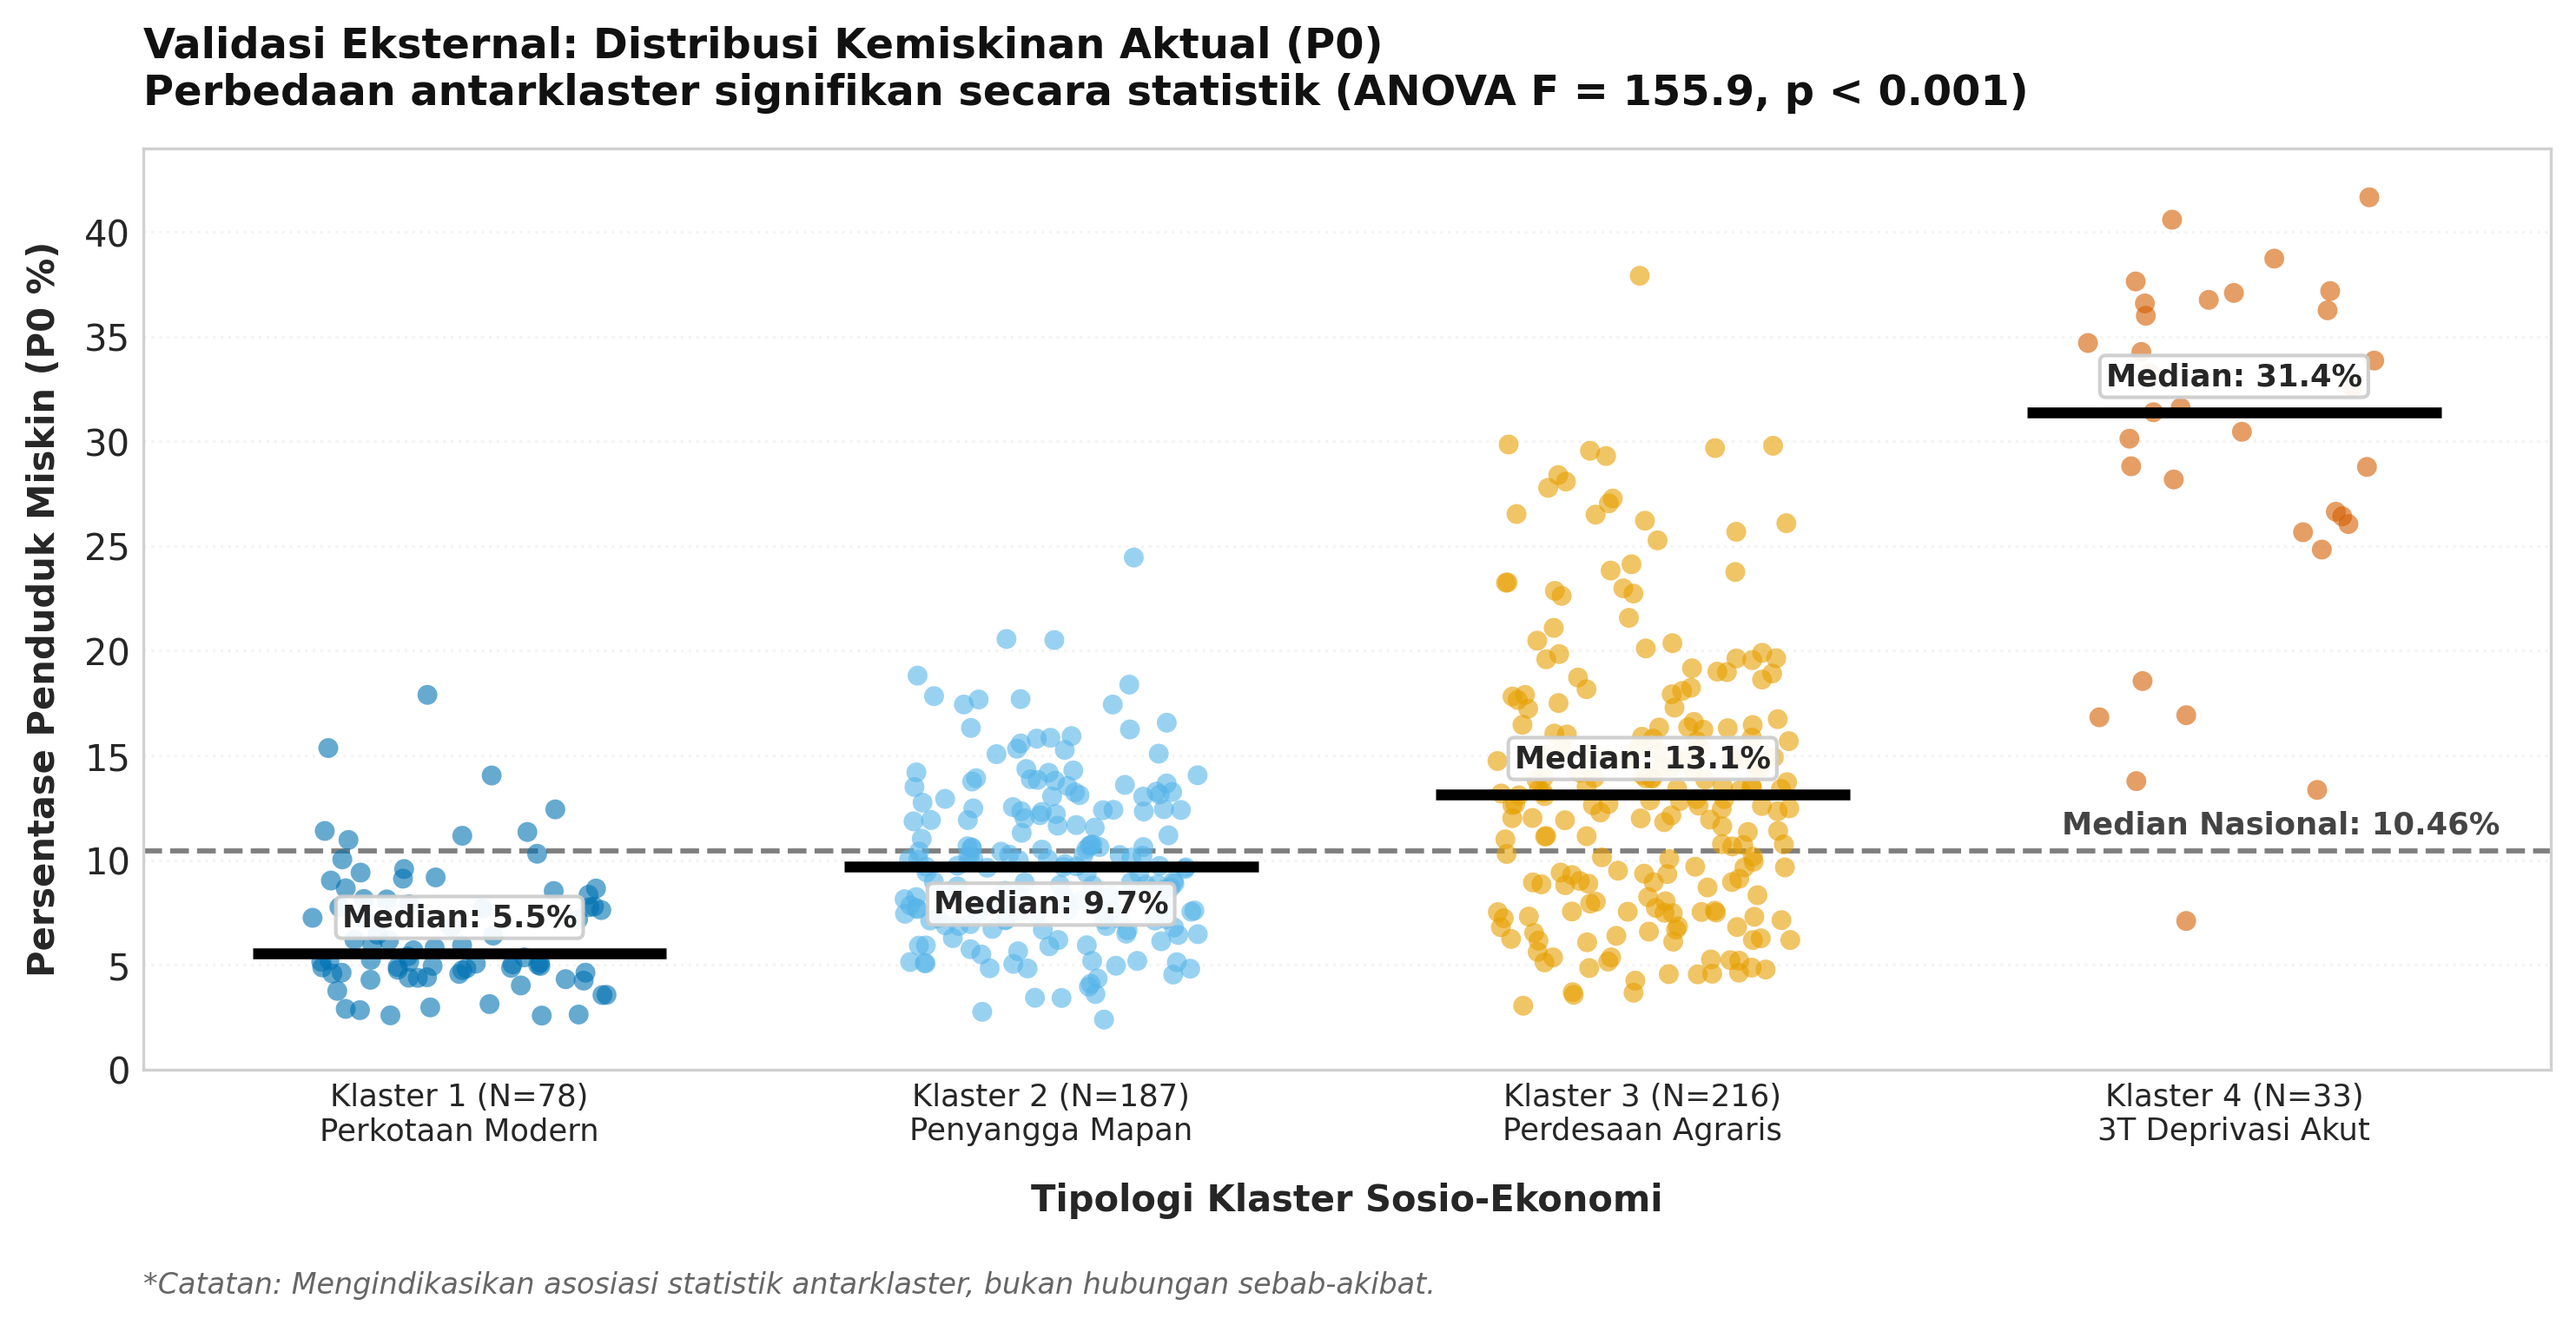
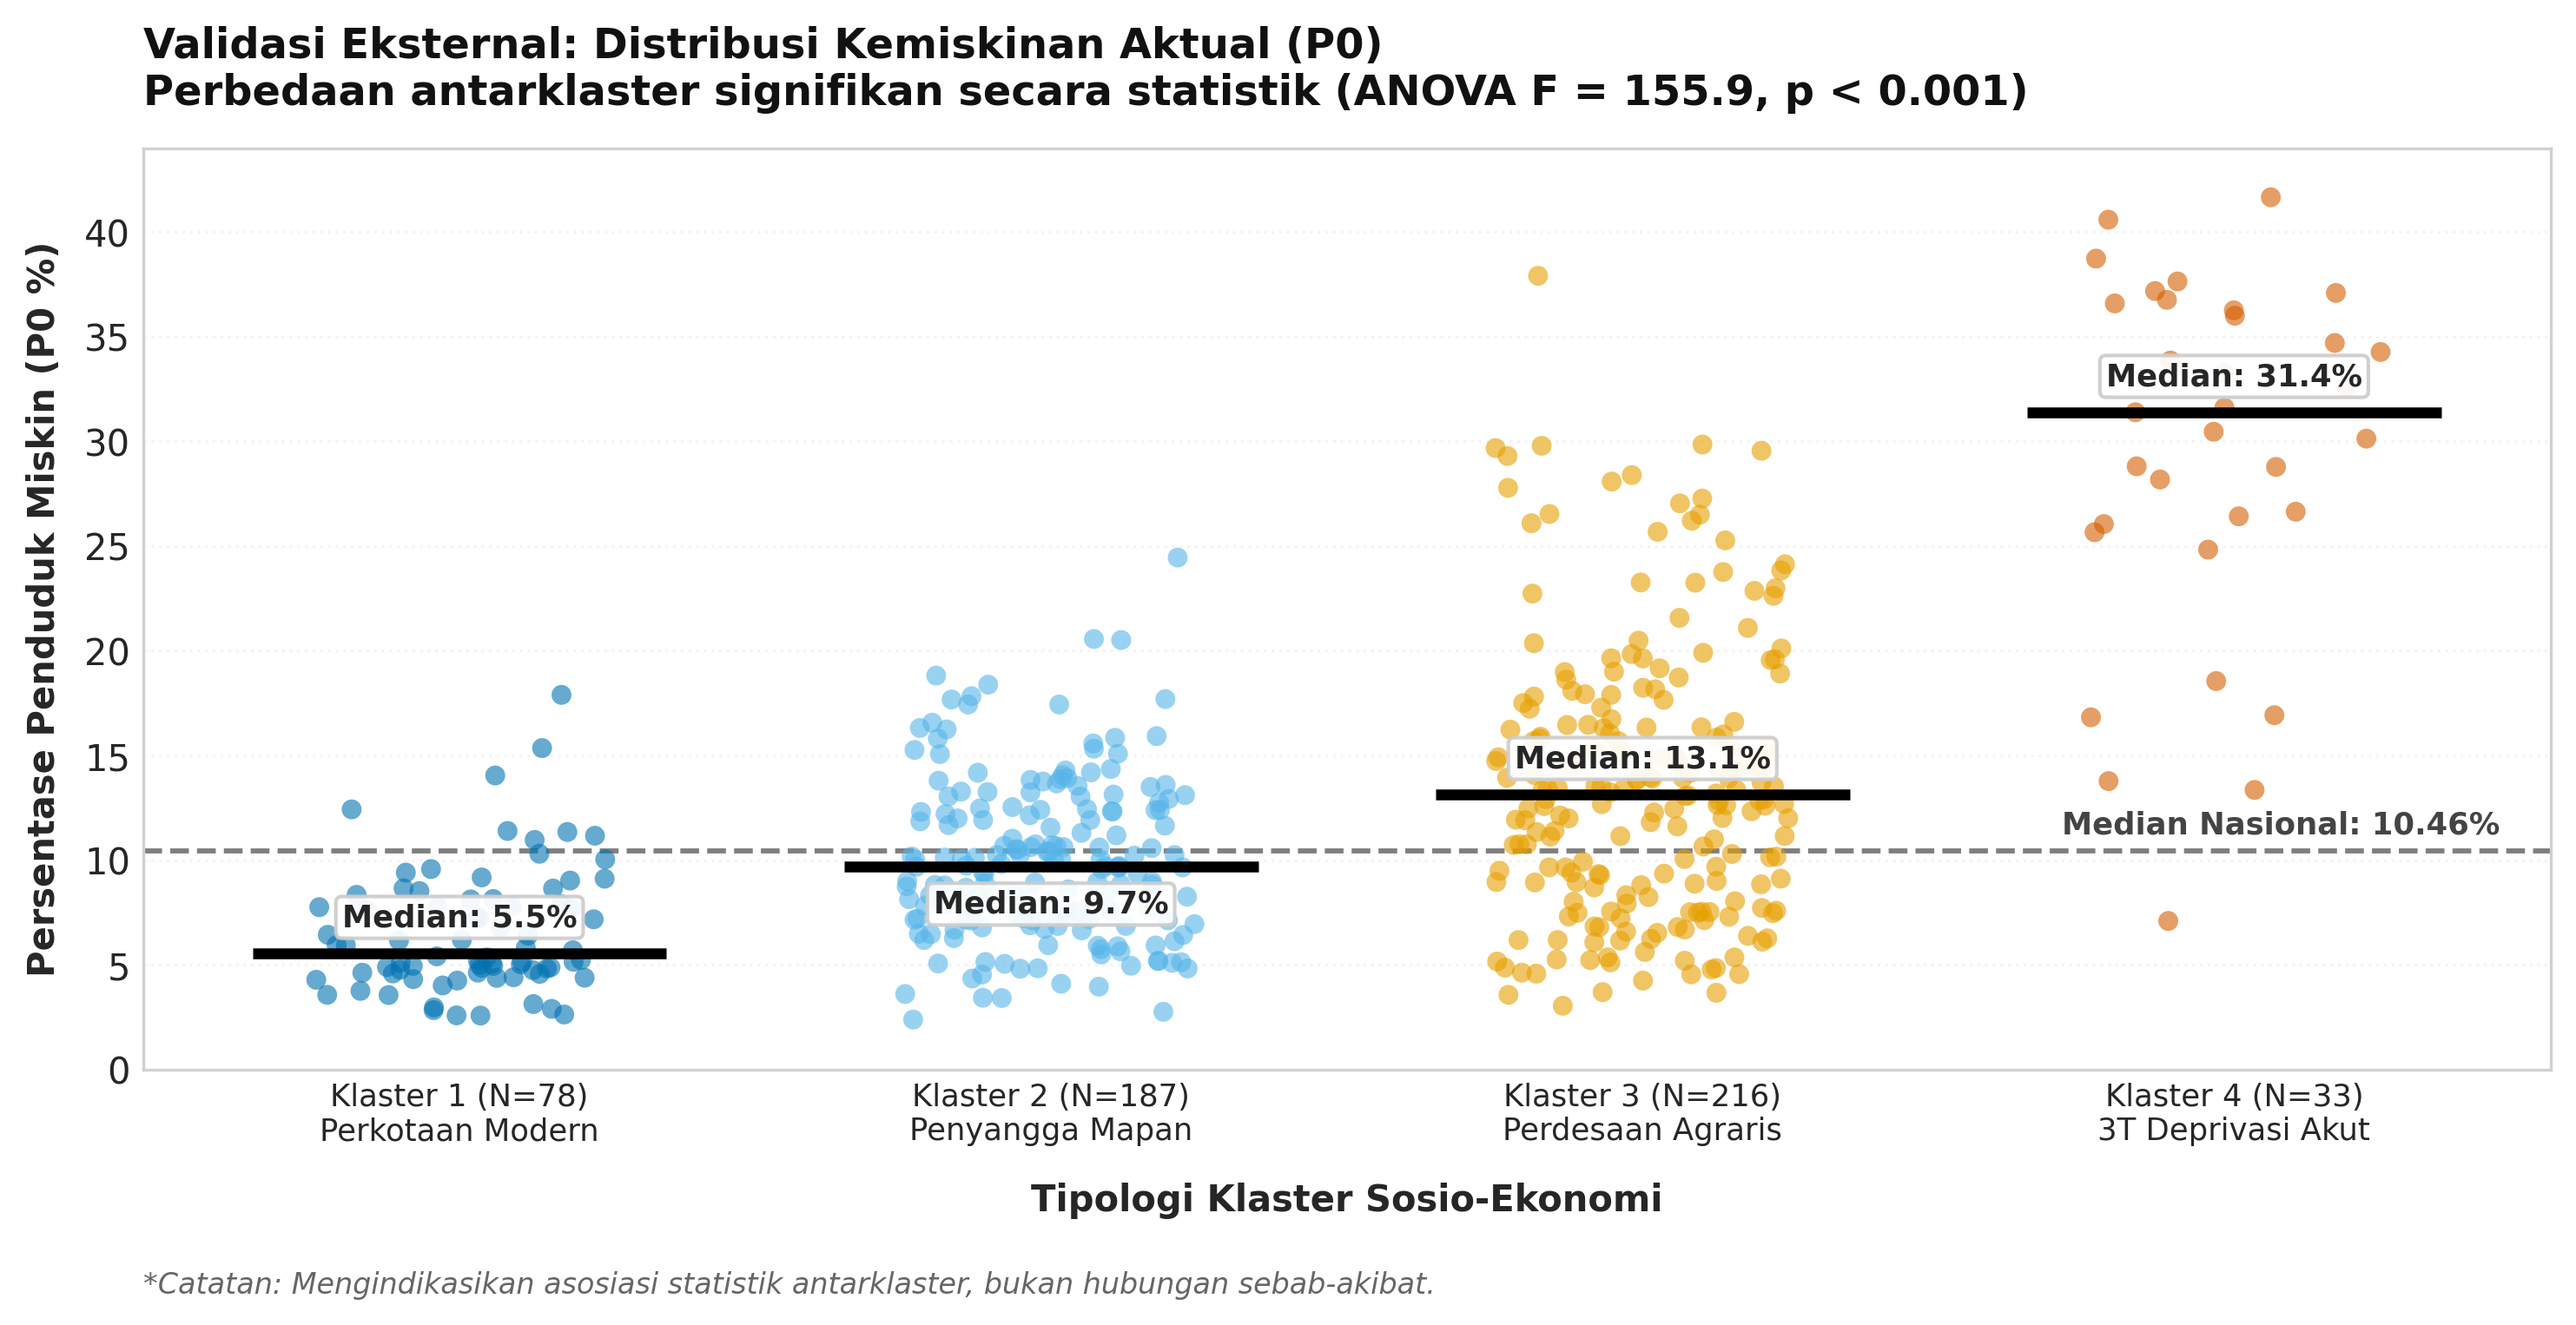
feat(dashboard): apply Option A 'Kemiskinan Kritis' and fix regency-city administrative classification

diff --git a/dashboard/src/pages/01_PovertyLandscape.tsx b/dashboard/src/pages/01_PovertyLandscape.tsx
@@ -154,7 +154,7 @@ export const PovertyLandscape: React.FC<PageProps> = ({ districts, benchmarks })
         />
 
         <KpiCard
-          label={isFilterActive ? "Kantong Akut Terpilih" : "Konsentrasi Kantong Akut"}
+          label={isFilterActive ? "Kemiskinan Kritis Terpilih" : "Kemiskinan Kritis (P0 ≥ 20%)"}
           value={
             isFilterActive
               ? `${acuteCount} Daerah`
@@ -163,19 +163,19 @@ export const PovertyLandscape: React.FC<PageProps> = ({ districts, benchmarks })
           unit={isFilterActive ? `(${acutePct.toFixed(1)}%)` : "di Kawasan Timur"}
           benchmarkText={
             isFilterActive
-              ? `Nasional: ${totalAcute} kantong akut (P0 ≥ 20%)`
-              : `${easternAcuteCount} dari ${totalAcute} kantong akut di Timur`
+              ? `Nasional: ${totalAcute} daerah kritis (P0 ≥ 20%)`
+              : `${easternAcuteCount} dari ${totalAcute} daerah kritis di Timur`
           }
           contextText={
             isFilterActive
               ? (acuteCount > 0 
-                  ? `${acuteCount} daerah berkategori kritis`
+                  ? `${acuteCount} daerah berangka P0 ≥ 20%`
                   : "Nol daerah terpilih P0 ≥ 20%")
-              : "Kawasan barat menyumbang 13.1% (8 kantong 3T)"
+              : "53 di Maluku, Papua & NTT · 8 di Barat"
           }
           badge={{
             text: isFilterActive
-              ? (acuteCount > 0 ? `${acuteCount} Kantong Akut` : "Nol Kantong Akut")
+              ? (acuteCount > 0 ? `${acuteCount} Daerah Kritis` : "Nol Daerah Kritis")
               : "Polarisasi Spasial",
             type: isFilterActive 
               ? (acuteCount > 0 ? "warning" : "positive") 
@@ -370,8 +370,8 @@ export const PovertyLandscape: React.FC<PageProps> = ({ districts, benchmarks })
                     <span className="font-bold text-amber-900 block mb-0.5 text-[10.5px]">Anomali Kemiskinan Barat</span>
                     <p className="leading-snug text-slate-600 text-[10px]">
                       {isFilterActive 
-                        ? `Pada seleksi wilayah ini terdapat ${acuteCount} daerah berkategori kantong kemiskinan akut (P0 ≥ 20.0%).`
-                        : "86.9% kantong akut berada di Timur, namun profil deprivasi serupa muncul di pulau terisolir barat seperti Nias Barat (26.4%) dan Mentawai (14.8%)."}
+                        ? `Pada seleksi wilayah ini terdapat ${acuteCount} daerah berkategori kemiskinan kritis (P0 ≥ 20.0%).`
+                        : "86.9% kemiskinan kritis (P0 ≥ 20%) berada di Timur, namun profil deprivasi serupa muncul di pulau terisolir barat seperti Nias Barat (26.4%) dan Mentawai (14.8%)."}
                     </p>
                   </div>
 

diff --git a/dashboard/src/constants/paradoxes.ts b/dashboard/src/constants/paradoxes.ts
@@ -65,7 +65,7 @@ export const PARADOXES: Record<string, ParadoxItem> = {
     name: "3T di Kawasan Barat",
     page: "01_PovertyLandscape",
     actionTitle: "Anomali Barat: Kepulauan Terisolir Menyerupai Profil Deprivasi Akut Kawasan Timur",
-    insightCallout: "[Asosiasi Statistik]: Menunjukkan kovariansi empiris linier multivariat, bukan hubungan sebab-akibat deterministik. 86.9% kantong kemiskinan akut terkonsentrasi di Kawasan Timur, namun profil deprivasi serupa juga muncul di kantong kepulauan terisolir barat seperti Nias dan Mentawai.",
+    insightCallout: "[Asosiasi Statistik]: Menunjukkan kovariansi empiris linier multivariat, bukan hubungan sebab-akibat deterministik. 86.9% kemiskinan kritis (P0 ≥ 20%) terkonsentrasi di Kawasan Timur, namun profil deprivasi serupa juga muncul di kantong kepulauan terisolir barat seperti Nias dan Mentawai.",
     evidence: "Nias Barat (P0 26.42%), Nias Selatan (P0 16.92%), Kepulauan Mentawai (P0 14.84%).",
     disclaimer: EPISTEMIC_DISCLAIMER,
     caseDistricts: ["Nias", "Nias Selatan", "Nias Barat", "Nias Utara", "Kepulauan Mentawai"]

diff --git a/dashboard/src/components/charts/ArchipelagoStripPlot.tsx b/dashboard/src/components/charts/ArchipelagoStripPlot.tsx
@@ -357,8 +357,8 @@ export const ArchipelagoStripPlot: React.FC<StripPlotProps> = ({ districts }) =>
         <div>
           <h3 className="text-xs font-bold text-slate-900 tracking-tight">
             {districts.length < 514 
-              ? `Polarisasi Antar-Kepulauan: Sebaran ${districts.length} Daerah Terfilter` 
-              : "Polarisasi Antar-Kepulauan: Konsentrasi 86.9% Kantong Akut di Kawasan Timur"}
+              ? `Polarisasi Kepulauan: Sebaran ${districts.length} Daerah Terfilter` 
+              : "Polarisasi Kepulauan: 86.9% Kemiskinan Kritis (P0 ≥ 20%) di Timur"}
           </h3>
           <p className="text-[10px] text-slate-500 mt-0.5">
             {districts.length < 514

diff --git a/dashboard/src/pages/02_IndicatorMap.tsx b/dashboard/src/pages/02_IndicatorMap.tsx
@@ -63,8 +63,8 @@ export const IndicatorMap: React.FC<PageProps> = ({ districts }) => {
     isPrime: (v: number) => boolean;
   }> = {
     poverty_rate_p0: {
-      criticalLabel: "Kantong Akut (P0 ≥ 20%)",
-      criticalBenchmark: "Ambang batas kemiskinan akut: P0 ≥ 20.0%",
+      criticalLabel: "Kemiskinan Kritis (P0 ≥ 20%)",
+      criticalBenchmark: "Ambang batas kemiskinan kritis: P0 ≥ 20.0%",
       criticalContext: "Prioritas intervensi bansos & infrastruktur dasar",
       isCritical: (v) => v >= 20.0,
       primeLabel: "Target RPJMN Tercapai",

diff --git a/dashboard/src/components/layout/Sidebar.tsx b/dashboard/src/components/layout/Sidebar.tsx
@@ -29,7 +29,7 @@ export const ACT_NAV_ITEMS: ActNavItem[] = [
     sub: "The Hook · Disparitas 17.5x",
     icon: BarChart3,
     narrativeTheme: "Lanskap Makro Kemiskinan Daerah",
-    focusSummary: "Jurang ekstrem 17.5x & konsentrasi 86.9% kantong akut di Kawasan Timur.",
+    focusSummary: "Jurang ekstrem 17.5x & konsentrasi 86.9% kemiskinan kritis di Kawasan Timur.",
   },
   {
     id: 1,

diff --git a/src/poverty_radar/data/preprocessor.py b/src/poverty_radar/data/preprocessor.py
@@ -44,8 +44,12 @@ def clean_raw_data(df_raw: pd.DataFrame) -> pd.DataFrame:
     df['kab_kota'] = df['kab_kota'].astype(str).str.replace('*', '', regex=False).str.strip()
     df['provinsi'] = df['provinsi'].astype(str).str.strip()
 
-    # Engineer geographic helper columns
-    df['tipe_wilayah'] = df['kab_kota'].apply(lambda x: 'Kota' if str(x).startswith('Kota') else 'Kabupaten')
+    # Engineer geographic helper columns (Official BPS: 98 Kota and 416 Kabupaten)
+    def assign_tipe(name: str) -> str:
+        s = str(name).strip()
+        return 'Kota' if (s.startswith('Kota ') and s != 'Kota Baru') else 'Kabupaten'
+
+    df['tipe_wilayah'] = df['kab_kota'].apply(assign_tipe)
     df['region_pulau'] = df['provinsi'].apply(assign_island_region)
 
     # Transform skewed GRDP / PDRB
